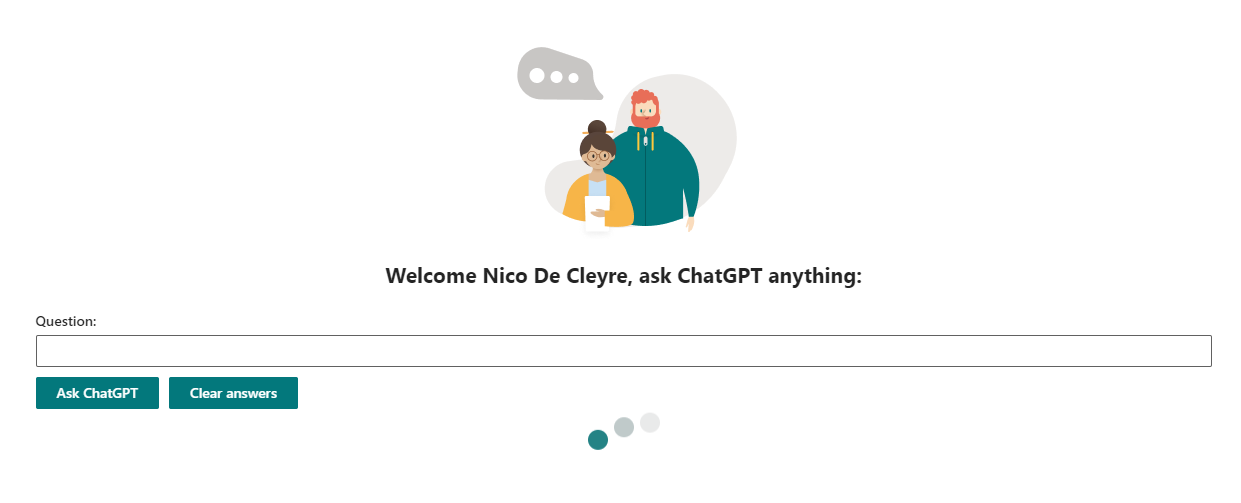
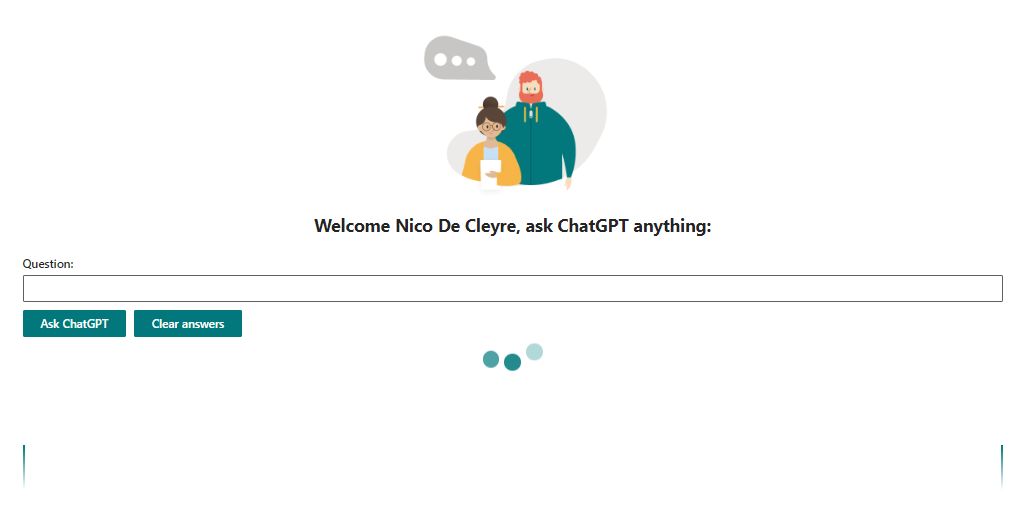
Updated styling, removed logging

diff --git a/samples/react-chat-gpt/src/webparts/chatgpt/components/Chatgpt.tsx b/samples/react-chat-gpt/src/webparts/chatgpt/components/Chatgpt.tsx
@@ -26,7 +26,6 @@ export default class Chatgpt extends React.Component<IChatgptProps, IChatgptStat
       apiKey: this.props.apiKey,
     });
     Chatgpt.openai = new OpenAIApi(key);
-    console.log(Chatgpt.openai);
   }
 
   private updateQuestion(value: string): void{
@@ -34,8 +33,6 @@ export default class Chatgpt extends React.Component<IChatgptProps, IChatgptStat
   }
 
   private async askQuestion(): Promise<void>{
-    console.log(Chatgpt.openai);
-    console.log(this.state);
     const currentQuestion = this.state.currentQuestion;
     this.setState({
       loading: true,
@@ -47,11 +44,9 @@ export default class Chatgpt extends React.Component<IChatgptProps, IChatgptStat
       max_tokens: 2048
     });
 
-    console.log(response.data);
-    console.log(response.data.choices[0].text);
     const chatgpt: IChatgpt = {
       question: currentQuestion,
-      answer: response.data.choices[0].text
+      answer: response.data.choices[0].text.replace('\n\n','')
     }
 
     const oldChatgpt = this.state.chatgpt;
@@ -86,18 +81,24 @@ export default class Chatgpt extends React.Component<IChatgptProps, IChatgptStat
           <TextField className={styles.textfield} label="Question: " onChange={((event,newValue) => this.updateQuestion(newValue))} value={this.state.currentQuestion}/>
           <PrimaryButton text='Ask ChatGPT' onClick={this.askQuestion.bind(this)}/>
           <PrimaryButton text='Clear answers' onClick={this.clearAnswers.bind(this)}/>
-          <section className="loadingContainer">
+          <section className={styles.loadingContainer}>
             {this.state.loading && <div className={styles.loader}>
               <div/>
               <div/>
               <div/>
             </div>}
           </section>
+          <section className={styles.container}>
           {chatgpt.map((chatgpt, key) => {return <section key={key}>
+            <section className={styles.questionContainer}>
               <section className={styles.question}>{chatgpt.question}</section>
-              <Interweave content={chatgpt.answer}/>
+            </section>
+            <section className={styles.answerContainer}>
+              <Interweave className={styles.answer} content={chatgpt.answer}/>
+            </section>
             </section>}
           )}
+          </section>
         </section>}
       </section>
     );

diff --git a/samples/react-chat-gpt/src/webparts/chatgpt/components/Chatgpt.module.scss b/samples/react-chat-gpt/src/webparts/chatgpt/components/Chatgpt.module.scss
@@ -10,6 +10,23 @@
   }
 }
 
+.container {
+  border: 1px solid grey;
+  padding: 25px 35px;
+  margin-top: 20px;
+  border-width: 3px;
+  border-style: solid;
+  border-image: linear-gradient( to bottom, "[theme: themePrimary, default: #03787c]", rgba(0, 0, 0, 0) ) 1 100%;
+}
+
+.questionContainer {
+  display: flex;
+}
+
+.answerContainer{
+  display: flex
+}
+
 button {
   margin-right: 10px;
 }
@@ -28,13 +45,24 @@ button {
 }
 
 .question {
-  background-color: lightgray;
+  background-color: "[theme: themePrimary, default: #03787c]";
+  color: white;
   padding: 20px;
-  margin-top: 5px;
+  border-radius: 1.125rem 1.125rem 1.125rem 0;
+  margin-bottom: 8px;
+}
+
+.answer {
+  background-color: #d2d2d2;
+  color: black;
+  padding: 20px;
+  border-radius: 1.125rem 1.125rem 0 1.125rem;
+  margin-bottom: 8px;
+  margin-left: 25%;
 }
 
 .loadingContainer {
-  min-height: 90px
+  height: 90px
 }
 
 .loader {
@@ -46,7 +74,7 @@ button {
 .loader > div {
   width: 20px;
   height: 20px;
-  background: #03787c;
+  background: "[theme: themePrimary, default: #03787c]";
   border-radius: 50%;
   margin : 3px;
   animation: loader 0.6s infinite alternate;
@@ -61,6 +89,6 @@ button {
   to {
     opacity: 0.1;
     transform: translate(0, -20px);
-    background : rgb(90, 90, 90);
+    background : "[theme: themeSecondary, default: #5a5a5a]";
   }
 }

diff --git a/samples/react-chat-gpt/README.md b/samples/react-chat-gpt/README.md
@@ -4,6 +4,8 @@
 
 This webpart uses Chat GPT in an SPFx webpart. You can ask questions from the web part and you will see the answers, most recent answers first.
 
+![Example animated screen](assets/chatgpt.gif)
+
 ![Example loading screen](assets/example.png)
 
 ![Example screen](assets/example2.png)
